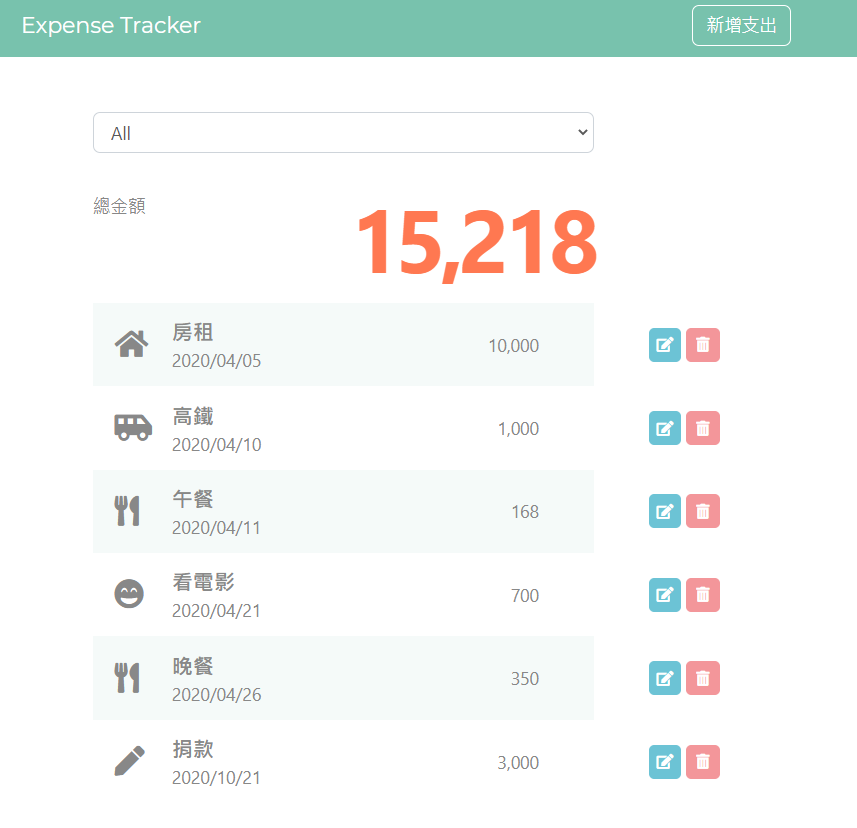
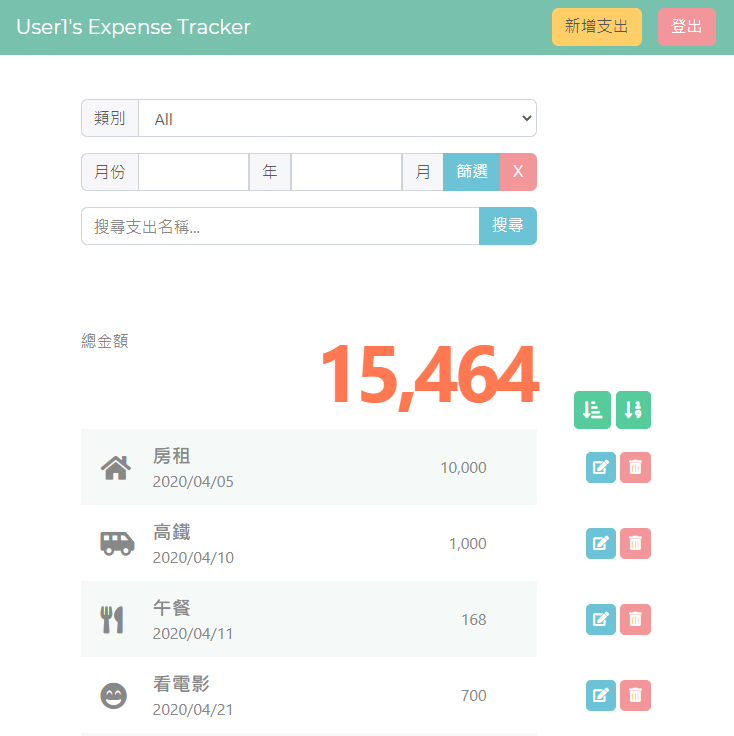
doc: update README and screenshot

diff --git a/README.md b/README.md
@@ -25,9 +25,10 @@ https://frozen-taiga-94619.herokuapp.com
 * create new expense
 * edit existing expense
 * delete expense
-* filter expenses by category, year and month simultaneously
-* search by expense name, and work simultaneously with other filter conditions
-* sort by amount or date, and work simultaneously with other filter conditions
+* filter, search, and sort expense simultaneously:
+  * filter expenses by category, year and month simultaneously
+  * search by expense name
+  * sort by amount or date
 * check subtotal amount of filtered results
 * click X button to clear year and month filtering condition
 * timezone differece issue is managed , and all date value is show in local time
